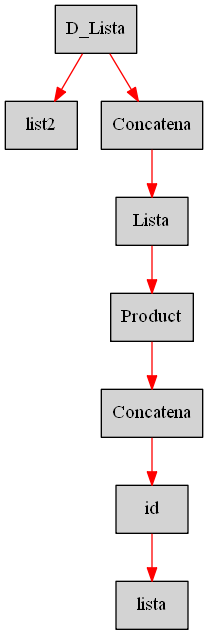
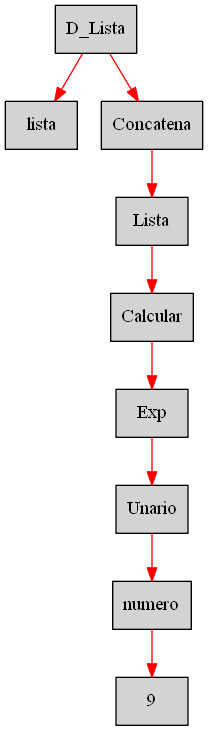
15 Marzo 2017 -- 17:26

Changed region(s): [[0.0, 0.0, 0.9808, 1.0]]

diff --git a/src/Interprete/ExpresionHaskell.java b/src/Interprete/ExpresionHaskell.java
@@ -188,7 +188,10 @@ public class ExpresionHaskell {
                     break;
                     
                 case "unario":
-                    break;
+                    Valor v5 = (Valor)Expresion(exp);
+                    int mult = Integer.parseInt(v5.valor.toString())*(-1);
+                    Valor v6= new Valor(mult,"numero");
+                    return v6;
                     
             }
         }else if(raiz.hijos.size()==2){
